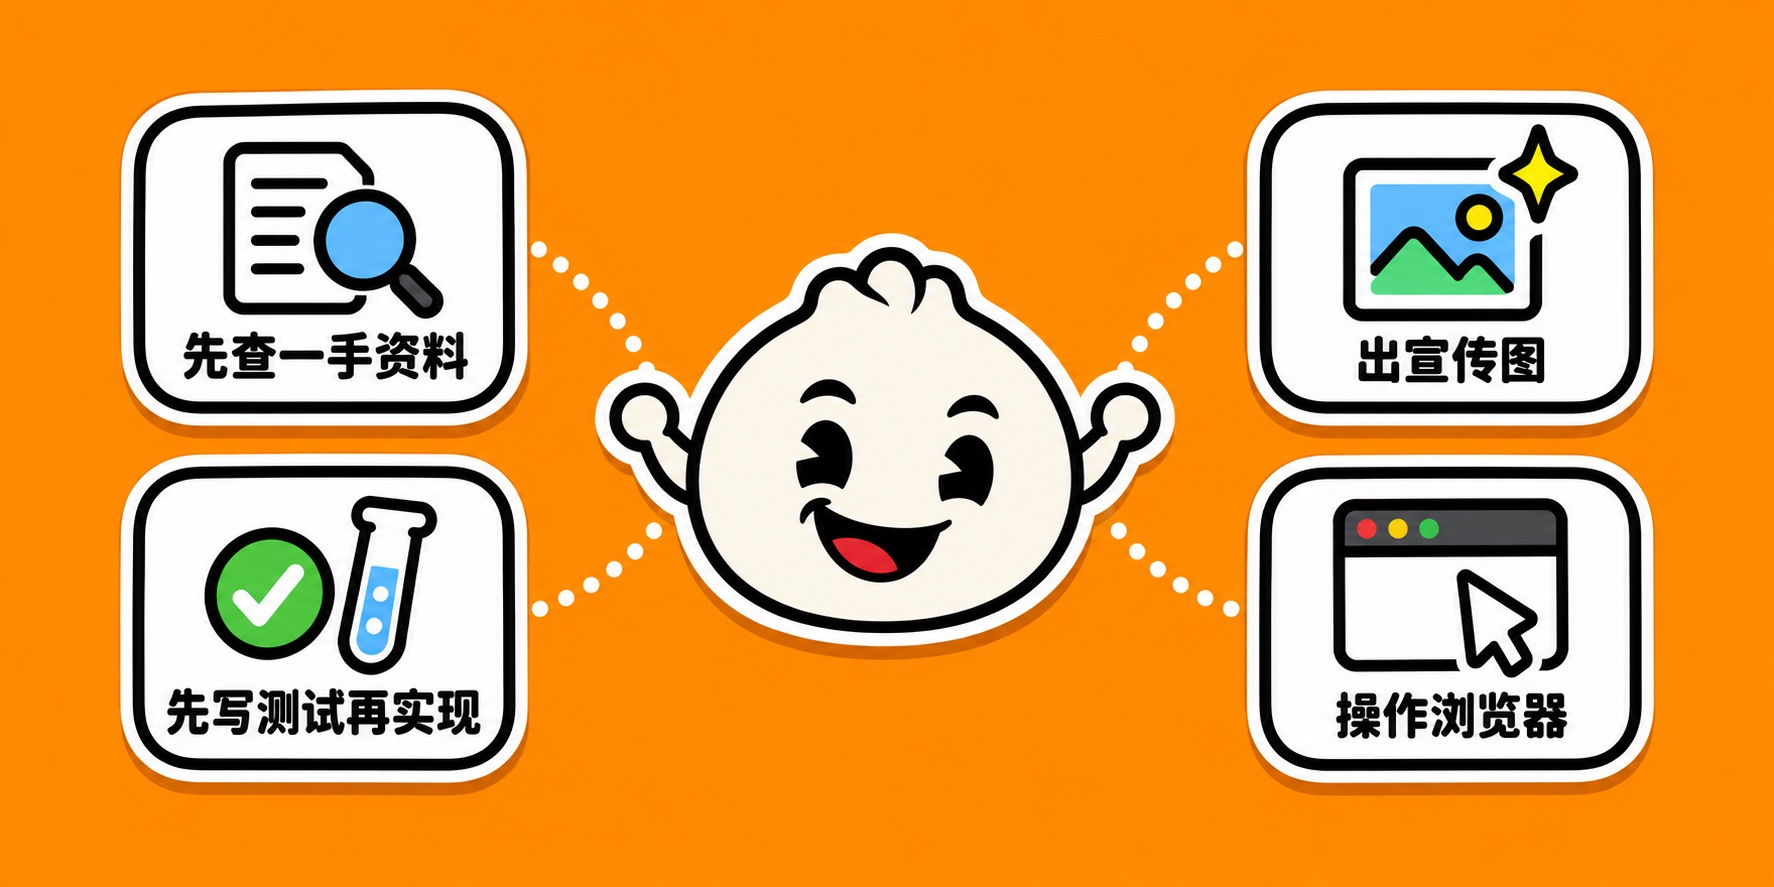
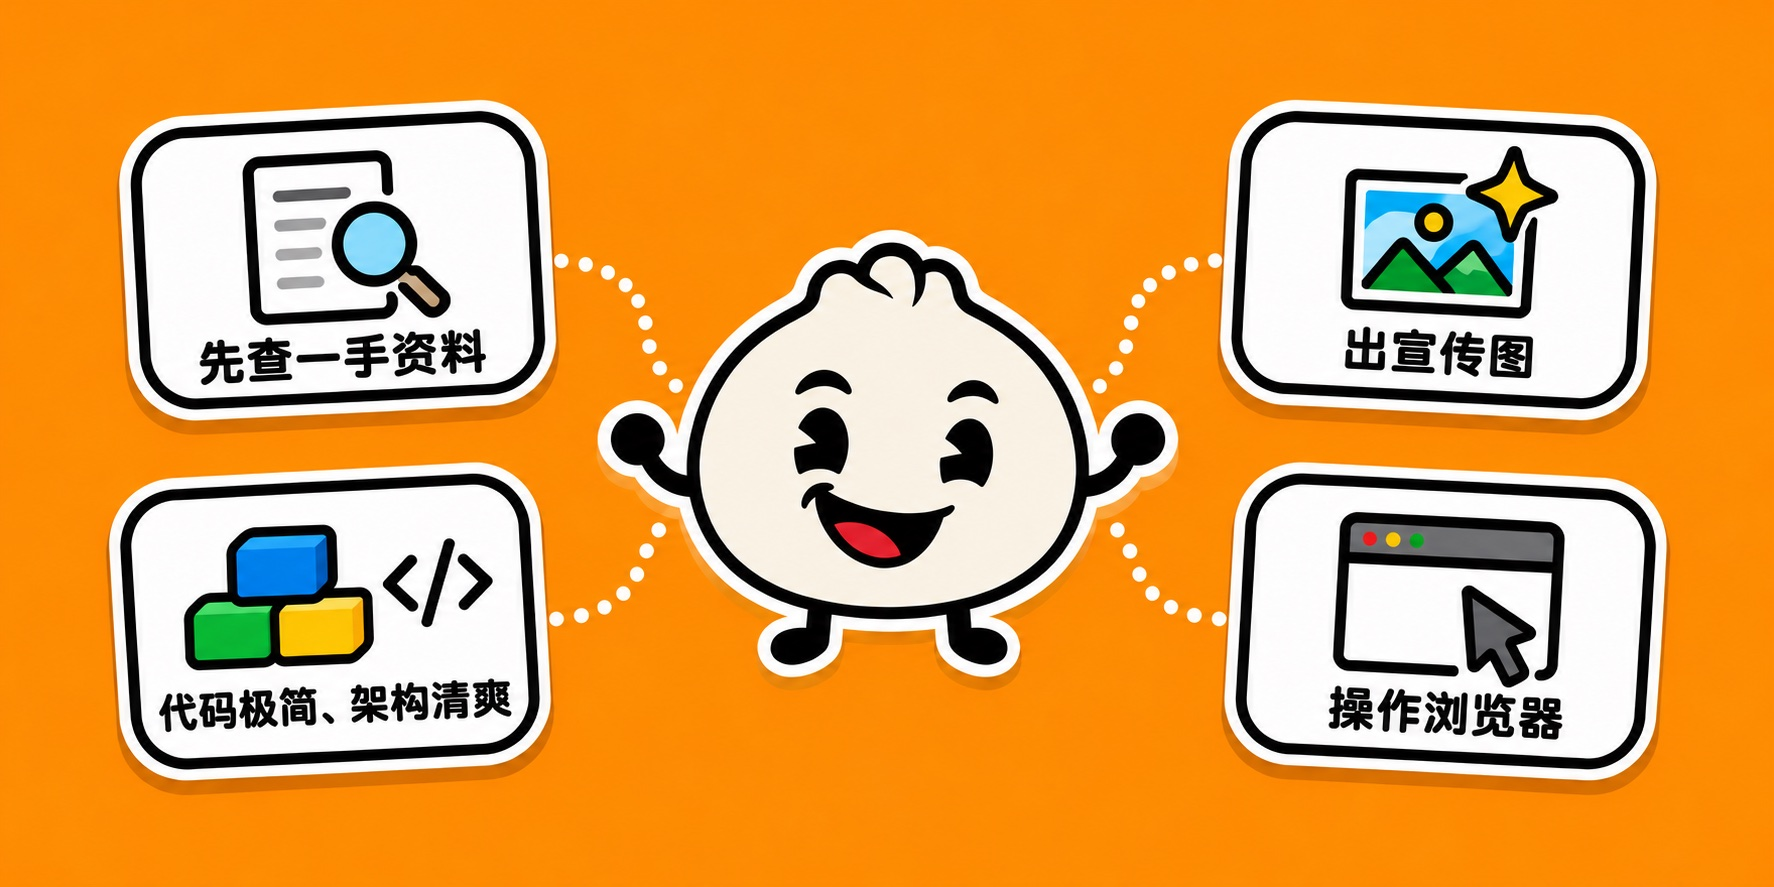
README：默认首页改为中文（英文移到 README.en.md），删“里面有什么”，skills 配图第三项改为代码极简、架构清爽，终端只用深色截图

Changed region(s): [[0.062, 0.0913, 0.9611, 0.9132]]

diff --git a/README.md b/README.md
@@ -1,68 +1,59 @@
-<p align="center"><img alt="FriedBun — my AI coding setup" src="assets/hero-en.jpg" width="100%"></p>
+<p align="center"><img alt="FriedBun：我每天在用的 AI 编程配置" src="assets/hero-zh.jpg" width="100%"></p>
 
-<p align="center"><a href="README.zh-CN.md">中文</a> · <b>English</b></p>
+<p align="center"><b>中文</b> · <a href="README.en.md">English</a></p>
 
-25 skills, multi-agent orchestration with FireCode, and an agent that takes over your whole Mac. One message sets it all up.
+25 个 skill、FireCode 多代理编排，Agent 接管你的整台 Mac。一句话装好。
 
-Just the skills (the skills CLI installs them into Claude Code, Codex, Cursor, Gemini CLI, GitHub Copilot and 70+ other agents):
+只要 skills（用 skills CLI 可以装进 Claude Code、Codex、Cursor、Gemini CLI、GitHub Copilot 等七十多种 agent）：
 
 ```bash
 npx skills add Suge8/friedbun
 ```
 
-For everything, paste this to your coding agent:
+要整套配置，把这句话发给你的 coding agent：
 
 ```text
-Clone https://github.com/Suge8/friedbun and set up this Mac by following its SETUP.md.
+克隆 https://github.com/Suge8/friedbun，按其中的 SETUP.md 把这台 Mac 配好。
 ```
 
-## In action
+## 实际效果
 
-### Your agent works the way good engineers do
+### Agent 照老手的做法干活
 
-25 skills show it the proven way to do things: check primary sources before answering, write the test before the code, make promo images, drive a browser, and more.
+25 个 skill 教它按成熟的路子来：先查一手资料再下结论，把代码写得极简、架构清爽，出宣传图，操作浏览器，等等。
 
-<p align="center"><img alt="The FriedBun mascot handing out four skills: check sources first, tests before code, make promo images, drive the browser" src="assets/skills-en.jpg" width="100%"></p>
+<p align="center"><img alt="FriedBun 包子分发四个 skill：先查一手资料、代码极简架构清爽、出宣传图、操作浏览器" src="assets/skills-zh.jpg" width="100%"></p>
 
-### A terminal set up for agents
+### 为 agent 配好的终端
 
-Ghostty, Herdr panes and a Starship prompt, with Pi and FireCode running in the same window. The colors are Catppuccin and follow your system's light or dark mode.
+Ghostty、Herdr 分屏和 Starship 提示符，Pi 和 FireCode 跑在同一个窗口里。Catppuccin 配色，跟随系统深浅色。
 
-<p align="center">
-  <picture>
-    <source media="(prefers-color-scheme: dark)" srcset="assets/terminal-dark.png">
-    <img alt="Ghostty with Herdr: a shell pane running tests next to Pi with FireCode" src="assets/terminal-light.png" width="100%">
-  </picture>
-</p>
+<p align="center"><img alt="Ghostty 里的 Herdr：左边跑测试，右边是带 FireCode 的 Pi" src="assets/terminal-dark.png" width="100%"></p>
 
-### One agent runs a team
+### 一个 agent 带一队子代理
 
-With [FireCode](https://github.com/Suge8/firecode), one agent hands work to sub-agents running in parallel. Important changes get reviewed by several models at once; anything they fail goes back to the agent and is reviewed again until it passes.
+用 [FireCode](https://github.com/Suge8/firecode)，一个 agent 把活派给几个并行的子代理。重要的改动由几个不同模型同时审查，没通过的退回给 agent 修，修完再审，直到通过。
 
-<p align="center"><img alt="FireCode sending work to three sub-agents" src="https://raw.githubusercontent.com/Suge8/firecode/main/design/promo/hero.gif" width="100%"></p>
+<p align="center"><img alt="FireCode 把任务派给三个子代理" src="https://raw.githubusercontent.com/Suge8/firecode/main/design/promo/hero.zh.gif" width="100%"></p>
 
-### The agent runs your Mac
+### Agent 接管你的 Mac
 
-Your agent operates any app on your Mac by itself — in the background, without touching your mouse. Powered by [bcu](https://github.com/Suge8/better-computer-use).
+Agent 能自己操作你电脑上的任何应用，全程在后台，不抢你的鼠标。靠的是 [bcu](https://github.com/Suge8/better-computer-use)。
 
-<p align="center"><img alt="The agent operating Mac apps in the background" src="assets/bcu-demo.gif" width="100%"></p>
-
-## What's inside
-
-Each skill is a folder under [`skills/`](skills), grouped into workflow, development, frontend, creative, operations and web-search. `workflow` started as a fork of [mattpocock/skills](https://github.com/mattpocock/skills).
+<p align="center"><img alt="Agent 在后台操作 Mac 应用" src="assets/bcu-demo.gif" width="100%"></p>
 
 <details>
-<summary>What the full setup installs</summary>
+<summary>整套配置会装什么</summary>
 
-- [Pi](https://pi.dev) coding agent with FireCode, my settings, keybindings and model roles, and my system prompt (`SYSTEM.md`). The prompt changes the agent's tone and habits; if you don't want that, restore the `.bak` it leaves behind.
-- Terminal: [Herdr](https://herdr.dev), [Ghostty](https://ghostty.org), [Starship](https://starship.rs), fastfetch and a zsh snippet.
-- bcu for Mac apps; [agent-browser](https://github.com/vercel-labs/agent-browser) and [CloakBrowser](https://cloakbrowser.dev) for the web, in a separate browser from the one you use.
-- The skills, linked to `~/.agents/skills`.
+- [Pi](https://pi.dev) coding agent 加 FireCode，我的设置、快捷键、模型角色，以及我的系统提示词 `SYSTEM.md`。它装上后会改变 agent 的语气和习惯，不想要就用它留下的 `.bak` 还原。
+- 终端：[Herdr](https://herdr.dev)、[Ghostty](https://ghostty.org)、[Starship](https://starship.rs)、fastfetch 和一段 zsh 配置。
+- 操作 Mac 应用的 bcu；操作网页的 [agent-browser](https://github.com/vercel-labs/agent-browser) 和 [CloakBrowser](https://cloakbrowser.dev)，用的是单独的浏览器，不碰你平时用的那个。
+- skills，链接到 `~/.agents/skills`。
 
-The agent installs everything by itself. At the end it asks you for just two things: log in to your model account in Pi, and give bcu two macOS permissions (Accessibility and Screen Recording). Files you already have get a `.bak` copy first. [SETUP.md](SETUP.md) lists every file it touches.
+agent 全程自己装，最后只请你做两件事：在 Pi 里登录模型账号，给 bcu 勾两个系统权限（辅助功能、屏幕录制）。你已有的文件都会先留一份 `.bak`。[SETUP.md](SETUP.md) 列出了它改动的每个文件。
 
 </details>
 
-If this saves you time, a ⭐ helps others find it.
+如果它帮你省了时间，点个 ⭐ 能让更多人看到。
 
-Apple Silicon, macOS 14+ · [MIT](LICENSE) · by Fried Bun ([@Suge_dif](https://x.com/Suge_dif))
+Apple Silicon、macOS 14+ · [MIT](LICENSE) · 作者 Fried Bun（[@Suge_dif](https://x.com/Suge_dif)）

diff --git a/README.en.md b/README.en.md
@@ -1,0 +1,59 @@
+<p align="center"><img alt="FriedBun — my AI coding setup" src="assets/hero-en.jpg" width="100%"></p>
+
+<p align="center"><a href="README.md">中文</a> · <b>English</b></p>
+
+25 skills, multi-agent orchestration with FireCode, and an agent that takes over your whole Mac. One message sets it all up.
+
+Just the skills (the skills CLI installs them into Claude Code, Codex, Cursor, Gemini CLI, GitHub Copilot and 70+ other agents):
+
+```bash
+npx skills add Suge8/friedbun
+```
+
+For everything, paste this to your coding agent:
+
+```text
+Clone https://github.com/Suge8/friedbun and set up this Mac by following its SETUP.md.
+```
+
+## In action
+
+### Your agent works the way good engineers do
+
+25 skills show it the proven way to do things: check primary sources before answering, keep the code minimal and the architecture clean, make promo images, drive a browser, and more.
+
+<p align="center"><img alt="The FriedBun mascot handing out four skills: check sources first, clean minimal code, make promo images, drive the browser" src="assets/skills-en.jpg" width="100%"></p>
+
+### A terminal set up for agents
+
+Ghostty, Herdr panes and a Starship prompt, with Pi and FireCode running in the same window. The colors are Catppuccin and follow your system's light or dark mode.
+
+<p align="center"><img alt="Ghostty with Herdr: a shell pane running tests next to Pi with FireCode" src="assets/terminal-dark.png" width="100%"></p>
+
+### One agent runs a team
+
+With [FireCode](https://github.com/Suge8/firecode), one agent hands work to sub-agents running in parallel. Important changes get reviewed by several models at once; anything they fail goes back to the agent and is reviewed again until it passes.
+
+<p align="center"><img alt="FireCode sending work to three sub-agents" src="https://raw.githubusercontent.com/Suge8/firecode/main/design/promo/hero.gif" width="100%"></p>
+
+### The agent runs your Mac
+
+Your agent operates any app on your Mac by itself — in the background, without touching your mouse. Powered by [bcu](https://github.com/Suge8/better-computer-use).
+
+<p align="center"><img alt="The agent operating Mac apps in the background" src="assets/bcu-demo.gif" width="100%"></p>
+
+<details>
+<summary>What the full setup installs</summary>
+
+- [Pi](https://pi.dev) coding agent with FireCode, my settings, keybindings and model roles, and my system prompt (`SYSTEM.md`). The prompt changes the agent's tone and habits; if you don't want that, restore the `.bak` it leaves behind.
+- Terminal: [Herdr](https://herdr.dev), [Ghostty](https://ghostty.org), [Starship](https://starship.rs), fastfetch and a zsh snippet.
+- bcu for Mac apps; [agent-browser](https://github.com/vercel-labs/agent-browser) and [CloakBrowser](https://cloakbrowser.dev) for the web, in a separate browser from the one you use.
+- The skills, linked to `~/.agents/skills`.
+
+The agent installs everything by itself. At the end it asks you for just two things: log in to your model account in Pi, and give bcu two macOS permissions (Accessibility and Screen Recording). Files you already have get a `.bak` copy first. [SETUP.md](SETUP.md) lists every file it touches.
+
+</details>
+
+If this saves you time, a ⭐ helps others find it.
+
+Apple Silicon, macOS 14+ · [MIT](LICENSE) · by Fried Bun ([@Suge_dif](https://x.com/Suge_dif))
